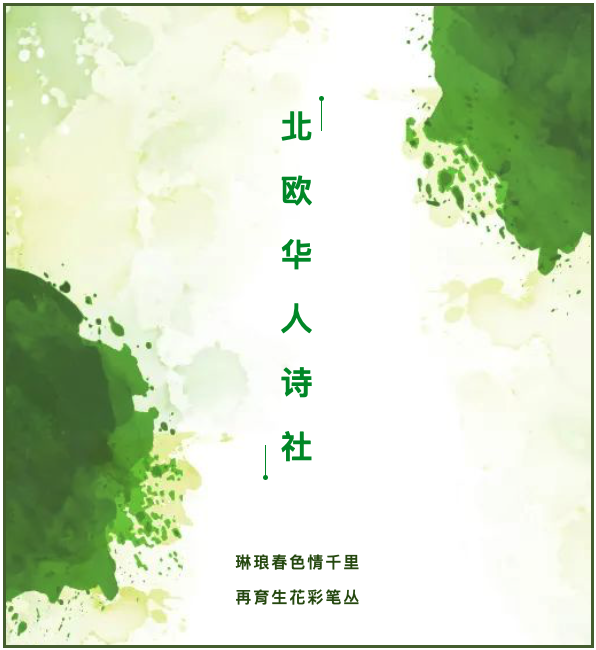
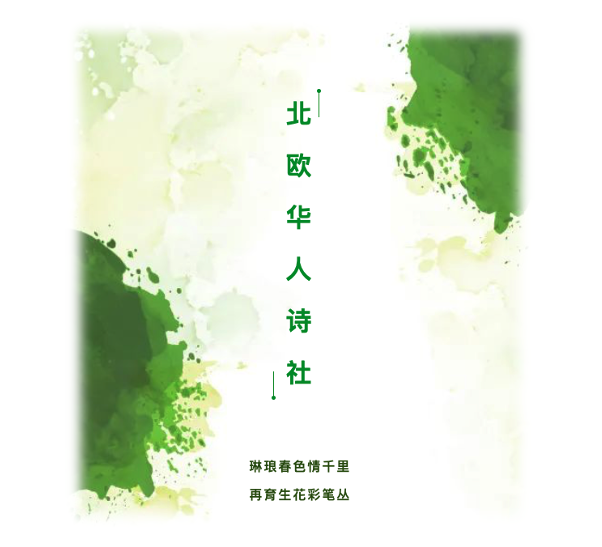
更新主页图片

diff --git a/index.html b/index.html
@@ -75,7 +75,7 @@
     
     <div class="hero row">
         <div class="col position-relative py-lg-7 pb-5"><div class="homepage-image">
-                    <img src="/images/%e4%b8%bb%e9%a1%b5%e5%9b%be%e7%89%87-4.png" class="img-fluid">
+                    <img src="/images/%e4%b8%bb%e9%a1%b5%e5%9b%be%e7%89%87.png" class="img-fluid">
                 </div><h1 class="display-4">北欧华人诗社</h1><h3 class="font-weight-normal">Nordic Chinese Poetry Asso. (NOCHPA)</h3></div>
     </div>
 
